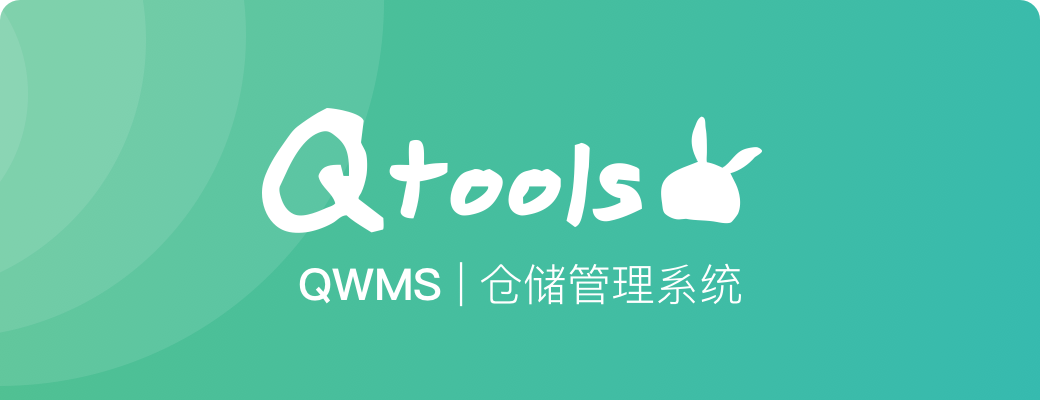
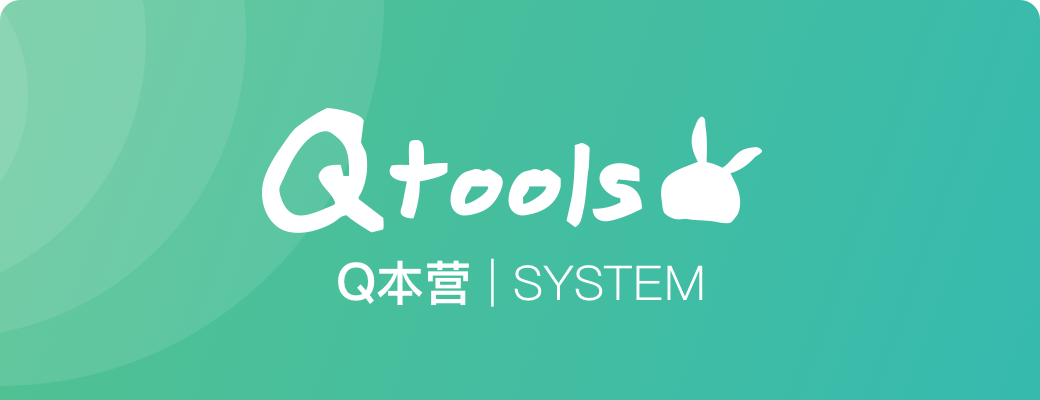
图片替换，细节修改

Changed region(s): [[0.2769, 0.63, 0.7077, 0.78]]

diff --git a/qby/src/models/account.js b/qby/src/models/account.js
@@ -19,17 +19,15 @@ export default {
 		limit:10,
 		currentPage:0,
 		total:0,
-		urRoleIds:[],
-		wsWarehouseId:'-1'
-		  
+		urRoleIds:[]
 	  },
 	  
   	reducers: {
 		accountList(state, { payload: {accountInfo,total,limit,currentPage}}) {
 			return {...state,accountInfo,total,limit,currentPage}
 		},
-		urUserinfo(state, { payload: {urUser,urRoleIds,wsWarehouseId}}) {
-			return {...state,urUser,urRoleIds,wsWarehouseId}
+		urUserinfo(state, { payload: {urUser,urRoleIds}}) {
+			return {...state,urUser,urRoleIds}
 		},
 		cleardata(state, { payload: urUser}) {
 			return {...state,urUser}
@@ -60,8 +58,7 @@ export default {
 				urRoleIds:[]
 			  };
 			  const urRoleIds=[];
-			  const wsWarehouseId='-1';
-			return {...state,urUser,urRoleIds,wsWarehouseId}
+			return {...state,urUser,urRoleIds}
 		},
 		//初始化urRoleIds
 		initUrRoleIds(state, { payload: value}){
@@ -78,7 +75,7 @@ export default {
 				const limit=result.limit;
 				const currentPage=result.currentPage;
 				for(var i=0;i<accountInfo.length;i++){
-					accountInfo[i].key=accountInfo[i].wsUrUserId;
+					accountInfo[i].key=accountInfo[i].urUserId;
 				}
 				const total=result.total;
               	yield put({type: 'accountList',payload:{accountInfo,total,limit,currentPage}});
@@ -90,13 +87,8 @@ export default {
 			if(result.code=='0'){
 				const urUser = result.urUser;
 				const urRoleIds=result.urUser.urRoleIds;
-				const wsWarehouseId=result.urUser.wsWarehouseId;
-				// yield put({
-				// 	type:'rolelist',
-				// 	payload:{code:'qerp.web.role.list',values:null}
-				// });
 				urUser.status=String(urUser.status);
-	 	 		yield put({type: 'urUserinfo',payload:{urUser,urRoleIds,wsWarehouseId}});
+	 	 		yield put({type: 'urUserinfo',payload:{urUser,urRoleIds}});
 			} 
 		},
 		*rolelist({ payload: {code,values} }, { call, put }) {

diff --git a/qby/src/constants/frame/userinfo.js b/qby/src/constants/frame/userinfo.js
@@ -37,11 +37,9 @@ class User extends React.Component {
 
   render() {
     const name=eval(sessionStorage.getItem('name'));
-    const wsName=eval(sessionStorage.getItem('wsName'));
-
     return(
         <Dropdown overlay={this.menu} trigger={['click']}>
-              <div className='user pointer'>{wsName} | {name}<Icon type="down" className='icon-down'/></div> 
+              <div className='user pointer'>Qtools | {name}<Icon type="down" className='icon-down'/></div> 
         </Dropdown>
       )
   }

diff --git a/qby/src/constants/frame/sider.js b/qby/src/constants/frame/sider.js
@@ -69,7 +69,6 @@ class Siders extends React.Component {
     }
 }
 function mapStateToProps(state) {
-	console.log(state.tab)
 	const {menus,activeKey,openKey} = state.tab;
     return {menus,activeKey,openKey};
 }
